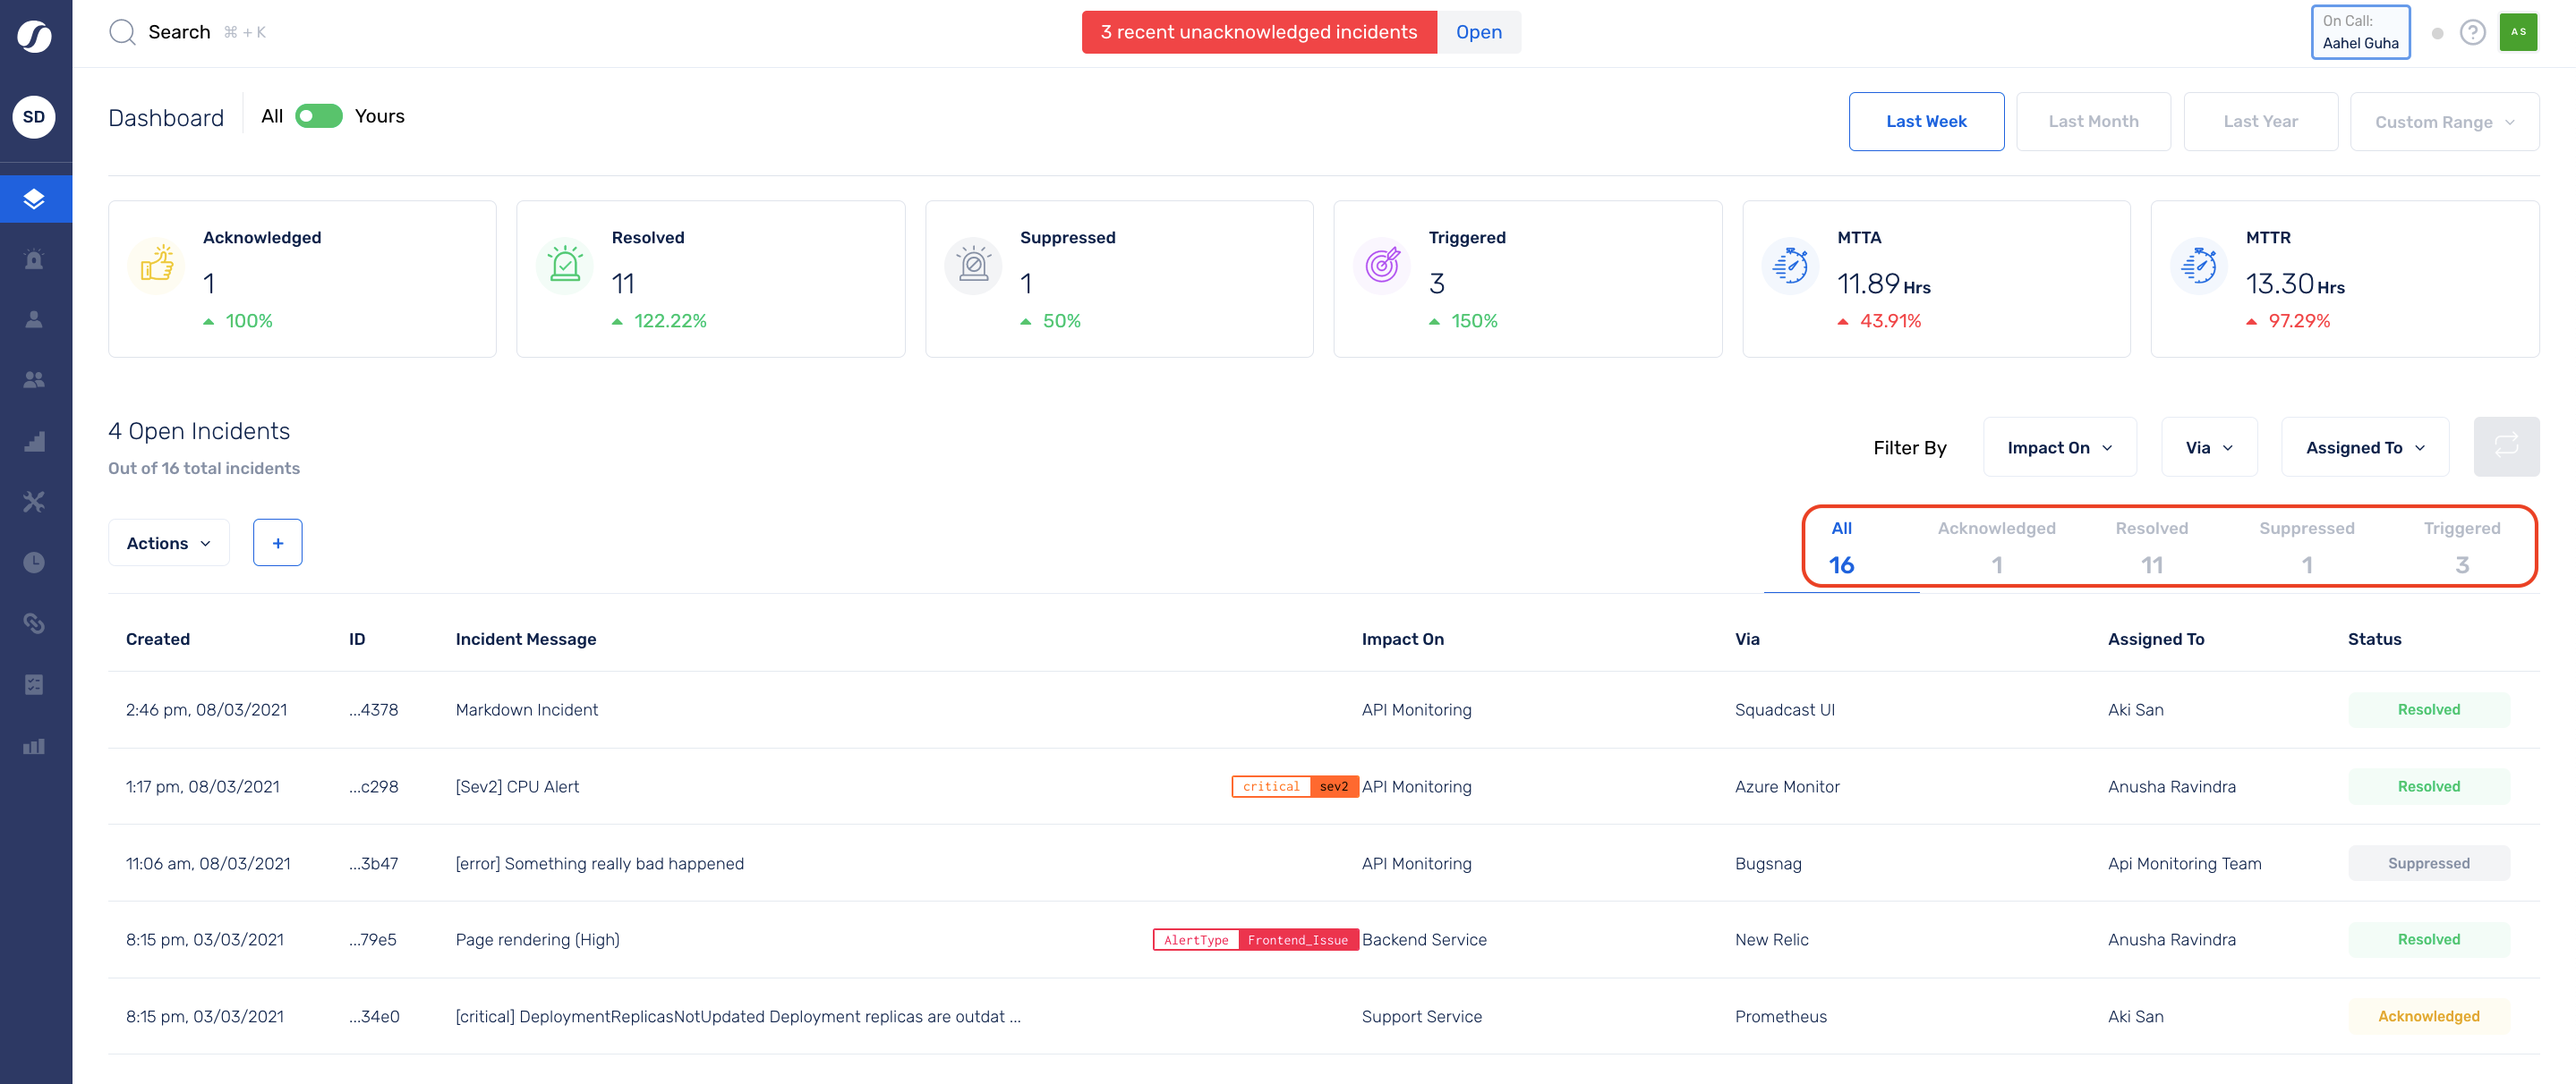
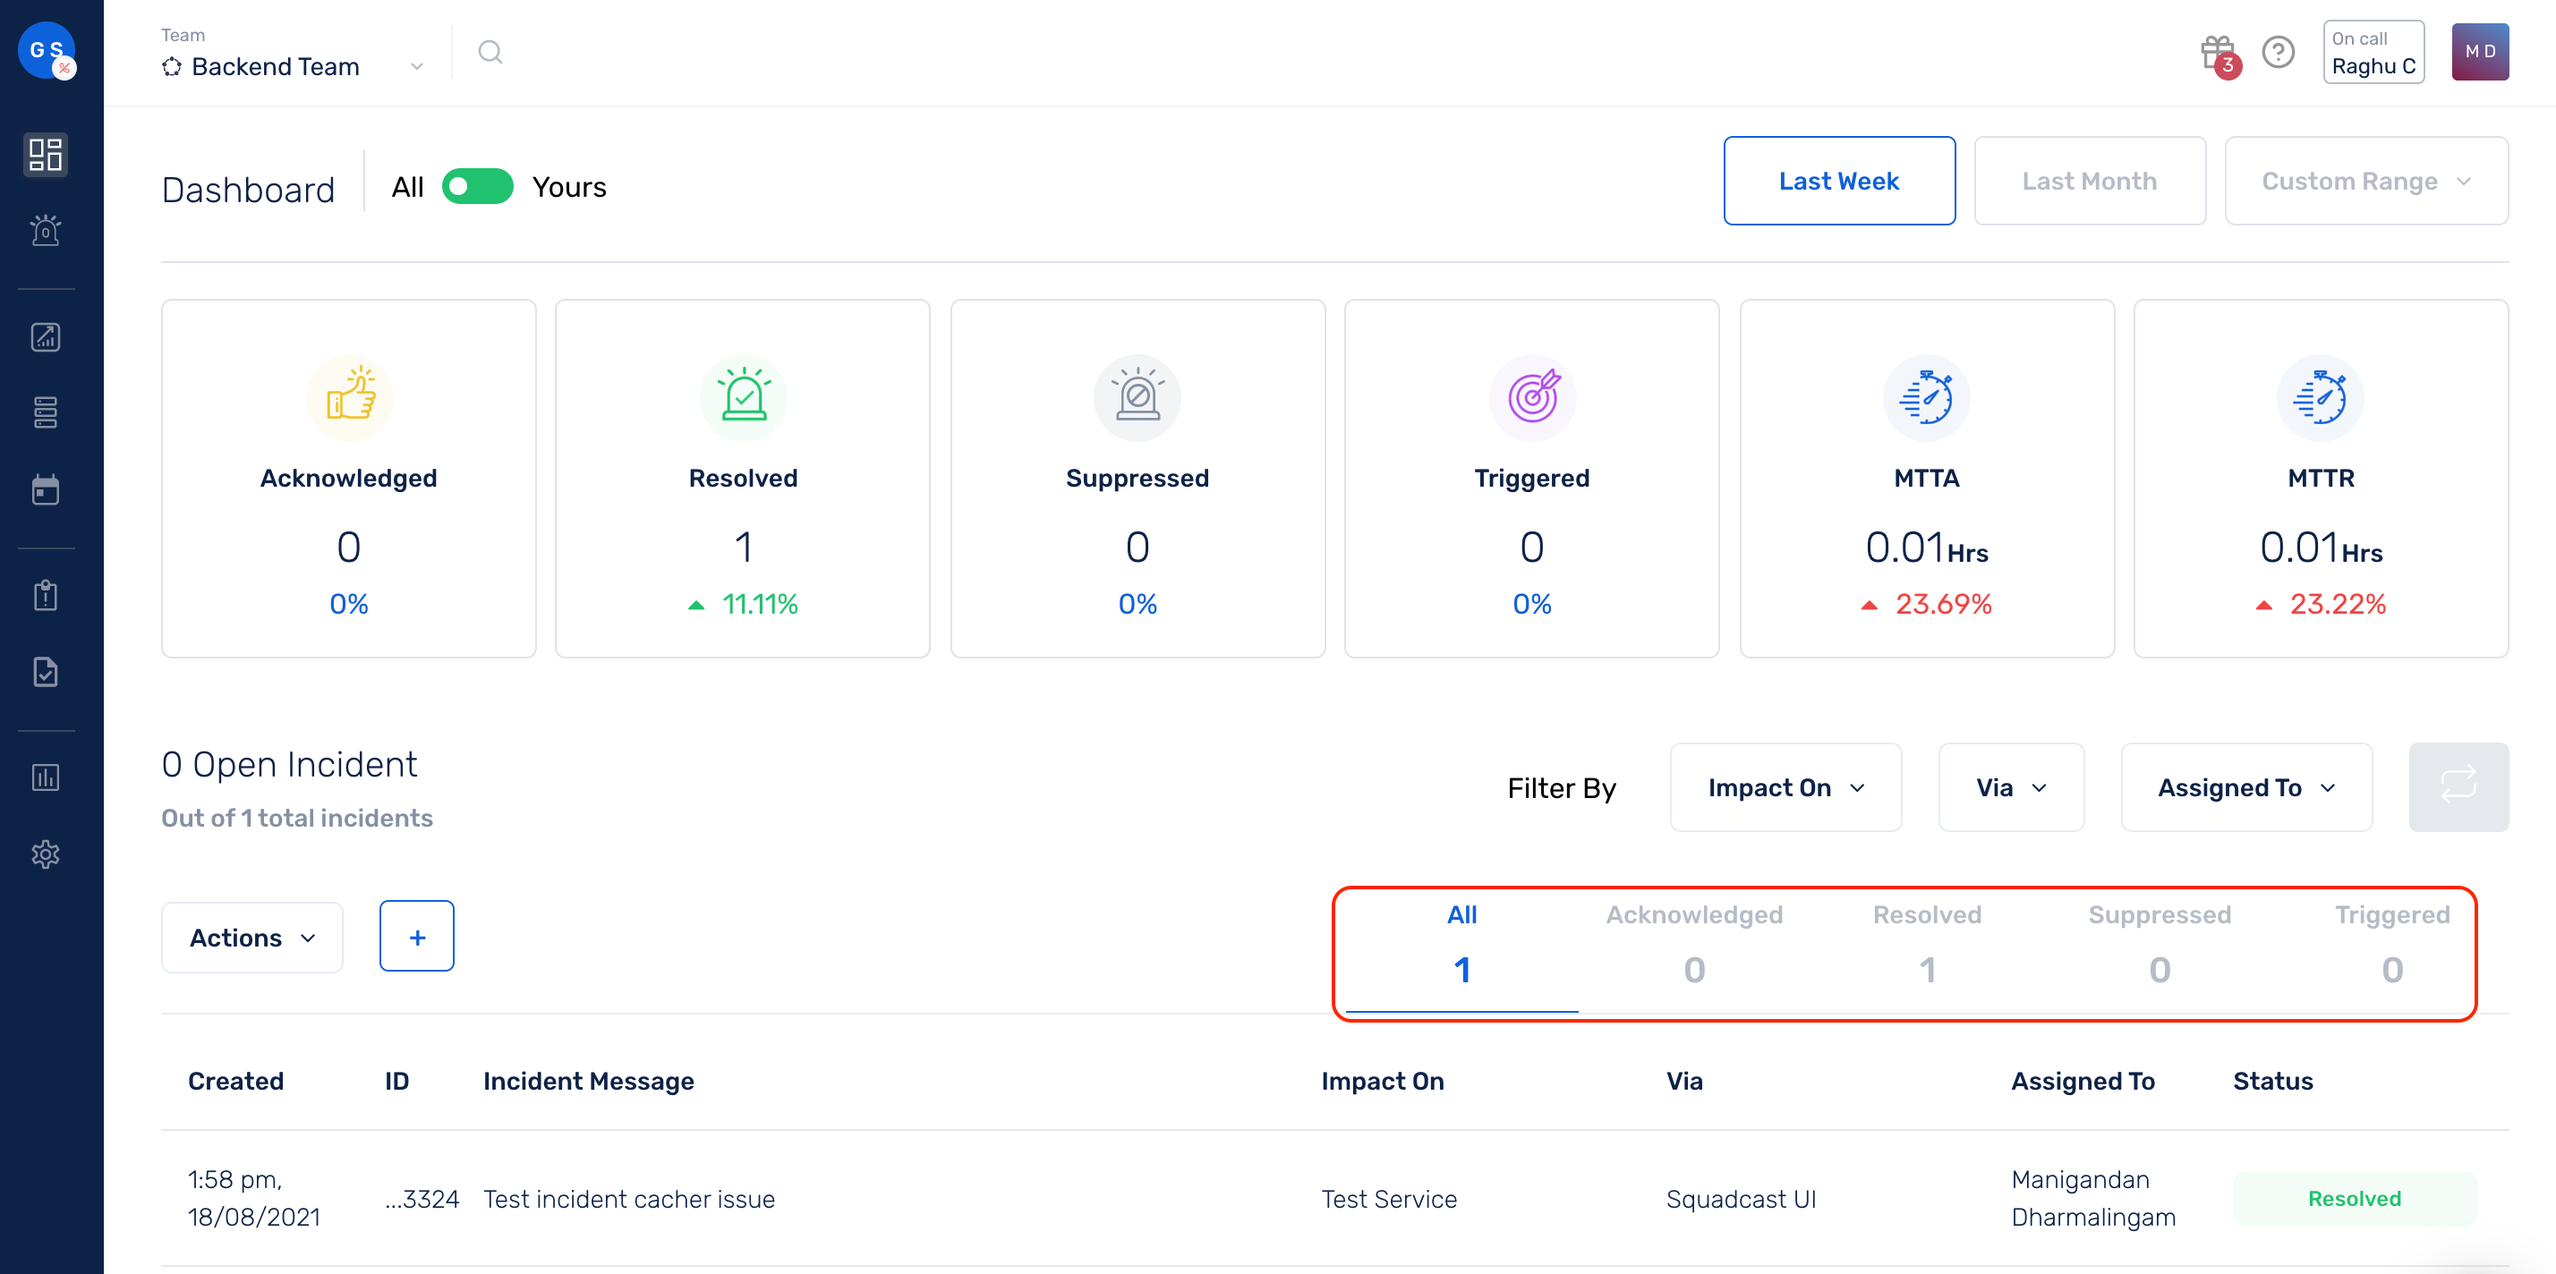
Changes to Incident Dashboard doc

diff --git a/pages/mydoc/incident_dashboard.md b/pages/mydoc/incident_dashboard.md
@@ -1,22 +1,26 @@
 ---
 title: Incident Dashboard
 tags: [incident dashboard]
-summary: "One centralized dashboard to rule them all"
+summary: "A centralized dashboard for every Team"
 sidebar: mydoc_sidebar
 permalink: docs/incident-dashboard
 folder: mydoc
 ---
 
-The **Incident Dashboard** is shown as soon as you log into the web application. This is the central console displaying all the incidents which have occurred in your organization and their current status.
+The **Incident Dashboard** is shown as soon as you log into the web application. This is the central console displaying all the incidents which have occurred for **a team** in the Organization along with their current status.
 
-You can filter your incidents by their status (Triggered, Acknowledged, Resolved or Suppressed) by using the tab based navigation at the list section.
+By default, all the incidents are displayed for the Team that is selected using the team picker on the top. You can switch the toggle to **Yours** to view incidents assigned to you in this Team.
+
+![incident_display](images/incident_display.png)
+
+You can filter your incidents by their status (`Triggered`, `Acknowledged`, `Resolved` or `Suppressed`) by using the tab based navigation in the list section.
 
 ![incident_dashboard_status_filter](images/incident_dashboard_status_filter.png)
 
-You can filter incidents by time using the quick filter options or by using the time range selector on the top right corner of the page.
+You can filter incidents by time using the quick filter options or by using the time range selector on the top right corner of the page. By default, incidents from the past week are displayed.
 
 ![incident_dashboard_time_filter](images/incident_dashboard_time_filter.png)
 
-You can also filter incidents by the impacted **Service**, Associated **Alert Source** and **Incident Assignee**.
+You can also filter incidents by the impacted **Service**, associated **Alert Sources** and **Incident Assignees**.
 
 ![incident_dashboard_other_filters](images/incident_dashboard_other_filters.png)
